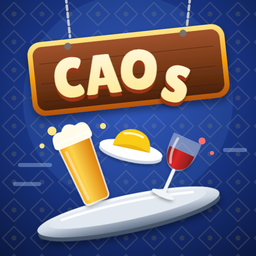
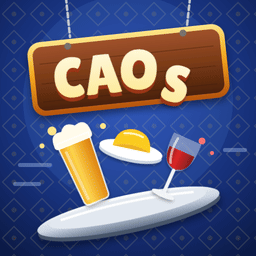
Contraste de los textos dorados y grises, imagen al compartir y el icono de Caos más ligero
Salió de la auditoría de rendimiento del 19-11-2026. La velocidad ya era buena; esto es lo demás:

- En modo claro, el dorado de los enlaces de las guías y del rótulo de la portada (#A8823F) daba
  3,3:1 sobre el crema, y el gris del subtítulo en inglés y del pie (#8C857A) 3,5:1. WCAG AA pide
  4,5:1 para texto normal. Pasan a #8A692D (4,7:1) y #736D64 (4,9:1). Los puntos decorativos de la
  tarjeta de Hilana siguen con el dorado de siempre, y el modo oscuro ya cumplía.
- Etiquetas Open Graph en la portada, la página de descarga y las cuatro guías, con dos imágenes
  de 1200×630 (el logo del estudio y el icono de Hilana): sin ellas el enlace salía sin foto al
  pegarlo en Facebook o WhatsApp. Sin texto en la imagen más que el nombre, para que valga en los
  dos idiomas.
- Dirección canónica en la portada y en /hilana/app/, que no la tenían.
- img/caos.png pasa de 79 kB a 30 kB (paleta de 255 colores): eran tres cuartas partes del peso
  de la portada.

Las páginas de privacidad y condiciones usan los mismos colores y no se han tocado.

diff --git a/hilana/en/guide/custom-fit-pattern/index.html b/hilana/en/guide/custom-fit-pattern/index.html
@@ -8,12 +8,21 @@
 <link rel="canonical" href="https://dgmstudio41003.com/hilana/en/guide/custom-fit-pattern/">
 <link rel="alternate" hreflang="es" href="https://dgmstudio41003.com/hilana/guia/patron-a-medida/">
 <link rel="alternate" hreflang="en" href="https://dgmstudio41003.com/hilana/en/guide/custom-fit-pattern/">
+<!-- Para que el enlace salga con imagen al pegarlo en Facebook, WhatsApp y demás (19-11-2026). -->
+<meta property="og:type" content="website">
+<meta property="og:url" content="https://dgmstudio41003.com/hilana/en/guide/custom-fit-pattern/">
+<meta property="og:title" content="Custom-fit knitting patterns: from your measurements to the pattern · DGMStudio41003">
+<meta property="og:description" content="How to turn your body measurements and your gauge swatch into a custom-fit knitting pattern: what to measure, what ease is and how to work out the stitches to cast on.">
+<meta property="og:image" content="https://dgmstudio41003.com/img/og-hilana.png">
+<meta property="og:image:width" content="1200">
+<meta property="og:image:height" content="630">
+<meta name="twitter:card" content="summary_large_image">
 <link rel="icon" href="/img/estudio-pestana.svg">
 <!-- Guía de la web del estudio (17-11-2026): para quien busca cómo hacer una muestra o un patrón
      a medida, con Hilana al final. Sin fuentes ni scripts de fuera, como el resto de la web.
      Lo de punto es técnica corriente, sin cifras de tablas. -->
 <style>
-  :root { --bg:#FBF5EA; --ink:#3D3328; --soft:#6E6253; --line:#E9DFCC; --accent:#A8823F; --box:#F3EADA;
+  :root { --bg:#FBF5EA; --ink:#3D3328; --soft:#6E6253; --line:#E9DFCC; --accent:#8A692D; --box:#F3EADA;
     --serif:"Iowan Old Style","Palatino Linotype",Palatino,Georgia,"Times New Roman",serif;
     --sans:system-ui,-apple-system,"Segoe UI",Roboto,"Helvetica Neue",Arial,sans-serif; }
   @media (prefers-color-scheme: dark) { :root { --bg:#26211A; --ink:#F2E9DA; --soft:#C2B6A2; --line:#3A3329; --accent:#D9B677; --box:#302A21; } }

diff --git a/hilana/guia/patron-a-medida/index.html b/hilana/guia/patron-a-medida/index.html
@@ -8,12 +8,21 @@
 <link rel="canonical" href="https://dgmstudio41003.com/hilana/guia/patron-a-medida/">
 <link rel="alternate" hreflang="es" href="https://dgmstudio41003.com/hilana/guia/patron-a-medida/">
 <link rel="alternate" hreflang="en" href="https://dgmstudio41003.com/hilana/en/guide/custom-fit-pattern/">
+<!-- Para que el enlace salga con imagen al pegarlo en Facebook, WhatsApp y demás (19-11-2026). -->
+<meta property="og:type" content="website">
+<meta property="og:url" content="https://dgmstudio41003.com/hilana/guia/patron-a-medida/">
+<meta property="og:title" content="Patrón de punto a medida: de tus medidas al patrón · DGMStudio41003">
+<meta property="og:description" content="Cómo pasar tus medidas y tu muestra a un patrón de punto a medida: qué medir, qué es la holgura y cómo se calculan los puntos que hay que montar.">
+<meta property="og:image" content="https://dgmstudio41003.com/img/og-hilana.png">
+<meta property="og:image:width" content="1200">
+<meta property="og:image:height" content="630">
+<meta name="twitter:card" content="summary_large_image">
 <link rel="icon" href="/img/estudio-pestana.svg">
 <!-- Guía de la web del estudio (17-11-2026): para quien busca cómo hacer una muestra o un patrón
      a medida, con Hilana al final. Sin fuentes ni scripts de fuera, como el resto de la web.
      Lo de punto es técnica corriente, sin cifras de tablas. -->
 <style>
-  :root { --bg:#FBF5EA; --ink:#3D3328; --soft:#6E6253; --line:#E9DFCC; --accent:#A8823F; --box:#F3EADA;
+  :root { --bg:#FBF5EA; --ink:#3D3328; --soft:#6E6253; --line:#E9DFCC; --accent:#8A692D; --box:#F3EADA;
     --serif:"Iowan Old Style","Palatino Linotype",Palatino,Georgia,"Times New Roman",serif;
     --sans:system-ui,-apple-system,"Segoe UI",Roboto,"Helvetica Neue",Arial,sans-serif; }
   @media (prefers-color-scheme: dark) { :root { --bg:#26211A; --ink:#F2E9DA; --soft:#C2B6A2; --line:#3A3329; --accent:#D9B677; --box:#302A21; } }

diff --git a/hilana/en/guide/gauge-swatch/index.html b/hilana/en/guide/gauge-swatch/index.html
@@ -8,12 +8,21 @@
 <link rel="canonical" href="https://dgmstudio41003.com/hilana/en/guide/gauge-swatch/">
 <link rel="alternate" hreflang="es" href="https://dgmstudio41003.com/hilana/guia/muestra/">
 <link rel="alternate" hreflang="en" href="https://dgmstudio41003.com/hilana/en/guide/gauge-swatch/">
+<!-- Para que el enlace salga con imagen al pegarlo en Facebook, WhatsApp y demás (19-11-2026). -->
+<meta property="og:type" content="website">
+<meta property="og:url" content="https://dgmstudio41003.com/hilana/en/guide/gauge-swatch/">
+<meta property="og:title" content="How to knit and measure a gauge swatch · DGMStudio41003">
+<meta property="og:description" content="How to knit and measure a knitting gauge swatch step by step: size, washing, counting stitches and rows over 10 cm (4 in), and what to do if it does not match the pattern.">
+<meta property="og:image" content="https://dgmstudio41003.com/img/og-hilana.png">
+<meta property="og:image:width" content="1200">
+<meta property="og:image:height" content="630">
+<meta name="twitter:card" content="summary_large_image">
 <link rel="icon" href="/img/estudio-pestana.svg">
 <!-- Guía de la web del estudio (17-11-2026): para quien busca cómo hacer una muestra o un patrón
      a medida, con Hilana al final. Sin fuentes ni scripts de fuera, como el resto de la web.
      Lo de punto es técnica corriente, sin cifras de tablas. -->
 <style>
-  :root { --bg:#FBF5EA; --ink:#3D3328; --soft:#6E6253; --line:#E9DFCC; --accent:#A8823F; --box:#F3EADA;
+  :root { --bg:#FBF5EA; --ink:#3D3328; --soft:#6E6253; --line:#E9DFCC; --accent:#8A692D; --box:#F3EADA;
     --serif:"Iowan Old Style","Palatino Linotype",Palatino,Georgia,"Times New Roman",serif;
     --sans:system-ui,-apple-system,"Segoe UI",Roboto,"Helvetica Neue",Arial,sans-serif; }
   @media (prefers-color-scheme: dark) { :root { --bg:#26211A; --ink:#F2E9DA; --soft:#C2B6A2; --line:#3A3329; --accent:#D9B677; --box:#302A21; } }

diff --git a/hilana/guia/muestra/index.html b/hilana/guia/muestra/index.html
@@ -8,12 +8,21 @@
 <link rel="canonical" href="https://dgmstudio41003.com/hilana/guia/muestra/">
 <link rel="alternate" hreflang="es" href="https://dgmstudio41003.com/hilana/guia/muestra/">
 <link rel="alternate" hreflang="en" href="https://dgmstudio41003.com/hilana/en/guide/gauge-swatch/">
+<!-- Para que el enlace salga con imagen al pegarlo en Facebook, WhatsApp y demás (19-11-2026). -->
+<meta property="og:type" content="website">
+<meta property="og:url" content="https://dgmstudio41003.com/hilana/guia/muestra/">
+<meta property="og:title" content="Cómo hacer y medir una muestra de punto · DGMStudio41003">
+<meta property="og:description" content="Cómo tejer y medir la muestra de punto paso a paso: tamaño, lavado, cómo contar puntos y vueltas en 10 cm y qué hacer si no coincide con el patrón.">
+<meta property="og:image" content="https://dgmstudio41003.com/img/og-hilana.png">
+<meta property="og:image:width" content="1200">
+<meta property="og:image:height" content="630">
+<meta name="twitter:card" content="summary_large_image">
 <link rel="icon" href="/img/estudio-pestana.svg">
 <!-- Guía de la web del estudio (17-11-2026): para quien busca cómo hacer una muestra o un patrón
      a medida, con Hilana al final. Sin fuentes ni scripts de fuera, como el resto de la web.
      Lo de punto es técnica corriente, sin cifras de tablas. -->
 <style>
-  :root { --bg:#FBF5EA; --ink:#3D3328; --soft:#6E6253; --line:#E9DFCC; --accent:#A8823F; --box:#F3EADA;
+  :root { --bg:#FBF5EA; --ink:#3D3328; --soft:#6E6253; --line:#E9DFCC; --accent:#8A692D; --box:#F3EADA;
     --serif:"Iowan Old Style","Palatino Linotype",Palatino,Georgia,"Times New Roman",serif;
     --sans:system-ui,-apple-system,"Segoe UI",Roboto,"Helvetica Neue",Arial,sans-serif; }
   @media (prefers-color-scheme: dark) { :root { --bg:#26211A; --ink:#F2E9DA; --soft:#C2B6A2; --line:#3A3329; --accent:#D9B677; --box:#302A21; } }

diff --git a/index.html b/index.html
@@ -5,13 +5,23 @@
 <meta name="viewport" content="width=device-width, initial-scale=1">
 <title>DGMStudio41003 · Apps para Android</title>
 <meta name="description" content="DGMStudio41003: apps pequeñas, hechas con cuidado. Cada una empieza por una idea pequeña y se trabaja hasta que no le sobra nada.">
+<link rel="canonical" href="https://dgmstudio41003.com/">
+<!-- Para que el enlace salga con imagen al pegarlo en Facebook, WhatsApp y demás (19-11-2026). -->
+<meta property="og:type" content="website">
+<meta property="og:url" content="https://dgmstudio41003.com/">
+<meta property="og:title" content="DGMStudio41003 · Apps para Android">
+<meta property="og:description" content="DGMStudio41003: apps pequeñas, hechas con cuidado. Cada una empieza por una idea pequeña y se trabaja hasta que no le sobra nada.">
+<meta property="og:image" content="https://dgmstudio41003.com/img/og-estudio.png">
+<meta property="og:image:width" content="1200">
+<meta property="og:image:height" content="630">
+<meta name="twitter:card" content="summary_large_image">
 <link rel="icon" href="/img/estudio-pestana.svg">
 <link rel="apple-touch-icon" href="/img/estudio-icono-180.png">
 <!-- Sin fuentes ni scripts de fuera: la página no pide nada a terceros, así que quien la visita no
      deja su IP en ningún sitio más que en GitHub Pages, que es quien la sirve. -->
 <style>
   :root {
-    --bg: #FBFAF7; --ink: #1F1D1A; --soft: #5F5A52; --faint: #8C857A; --line: #E9E3D8; --gold: #A8823F;
+    --bg: #FBFAF7; --ink: #1F1D1A; --soft: #5F5A52; --faint: #736D64; --line: #E9E3D8; --gold: #8A692D;
     --hilana-bg: #FBF5EA; --hilana-ink: #3D3328; --hilana-accent: #A8823F;
     --caos-bg: #1C2C78; --caos-ink: #FFFFFF; --caos-soft: #C9D3FF; --caos-accent: #FFC845;
     --radius: 22px;

diff --git a/hilana/app/index.html b/hilana/app/index.html
@@ -5,6 +5,16 @@
 <meta name="viewport" content="width=device-width, initial-scale=1">
 <title>Descargar Hilana · DGMStudio41003</title>
 <meta name="description" content="Hilana: patrones de punto calculados con tus medidas. Descárgala en Google Play; pronto también en el App Store.">
+<link rel="canonical" href="https://dgmstudio41003.com/hilana/app/">
+<!-- Para que el enlace salga con imagen al pegarlo en Facebook, WhatsApp y demás (19-11-2026). -->
+<meta property="og:type" content="website">
+<meta property="og:url" content="https://dgmstudio41003.com/hilana/app/">
+<meta property="og:title" content="Descargar Hilana · DGMStudio41003">
+<meta property="og:description" content="Hilana: patrones de punto calculados con tus medidas. Descárgala en Google Play; pronto también en el App Store.">
+<meta property="og:image" content="https://dgmstudio41003.com/img/og-hilana.png">
+<meta property="og:image:width" content="1200">
+<meta property="og:image:height" content="630">
+<meta name="twitter:card" content="summary_large_image">
 <link rel="icon" href="/img/hilana.png">
 <!-- La página del QR del flyer de las mercerías (30-10-2026). Un solo QR para los dos teléfonos:
      aquí se mira si es Android o iPhone y se salta a su tienda. Si cambia algo de las tiendas, se
